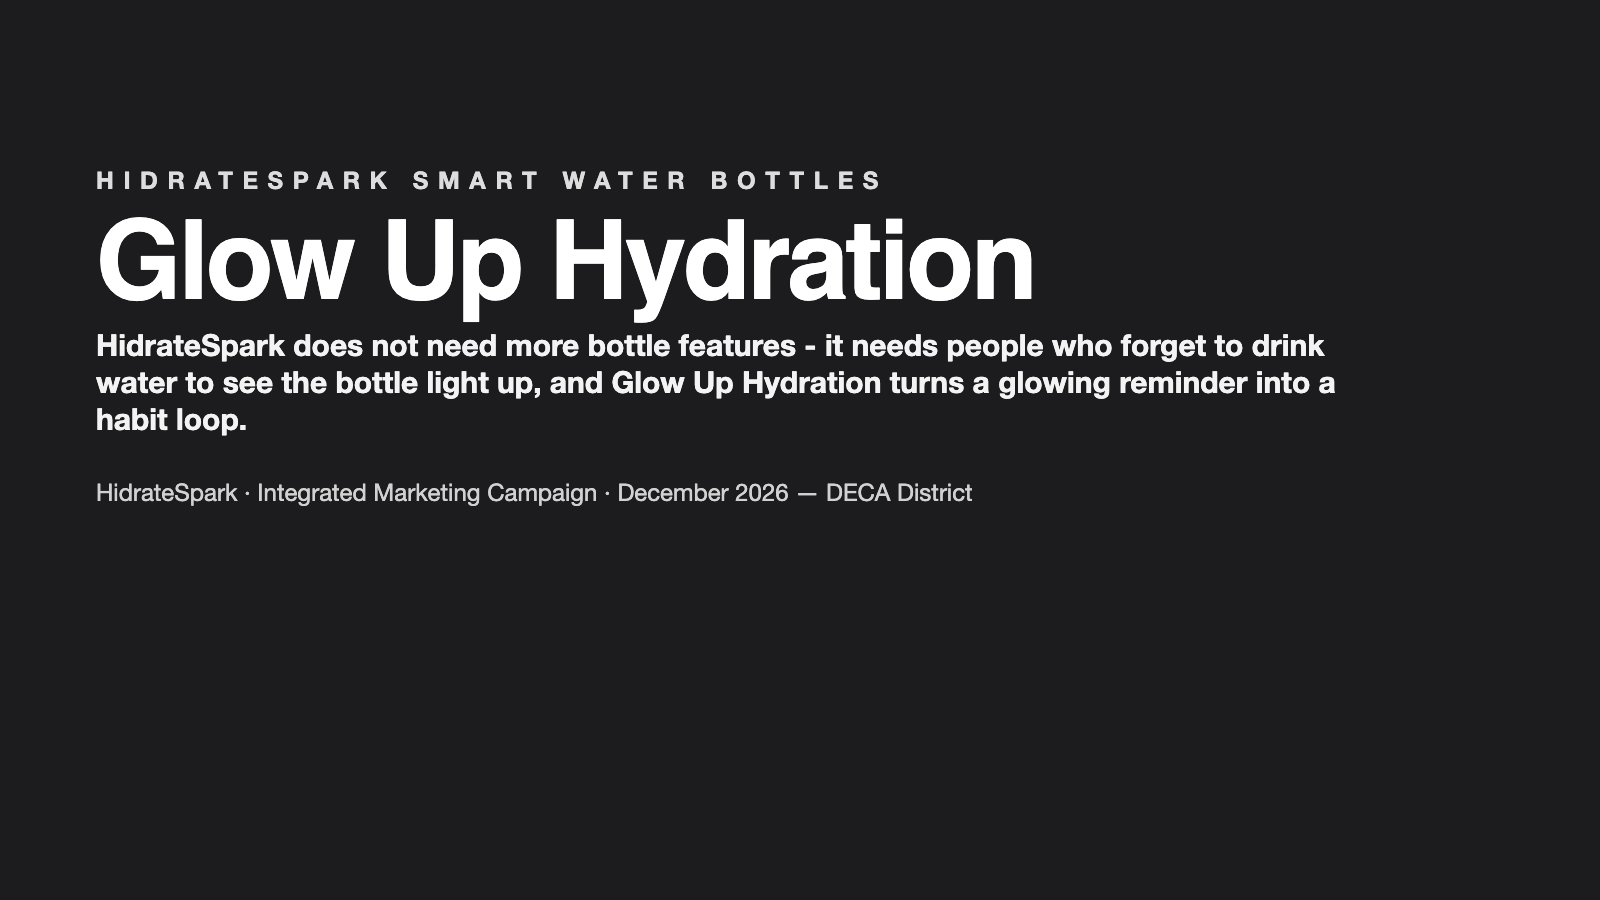
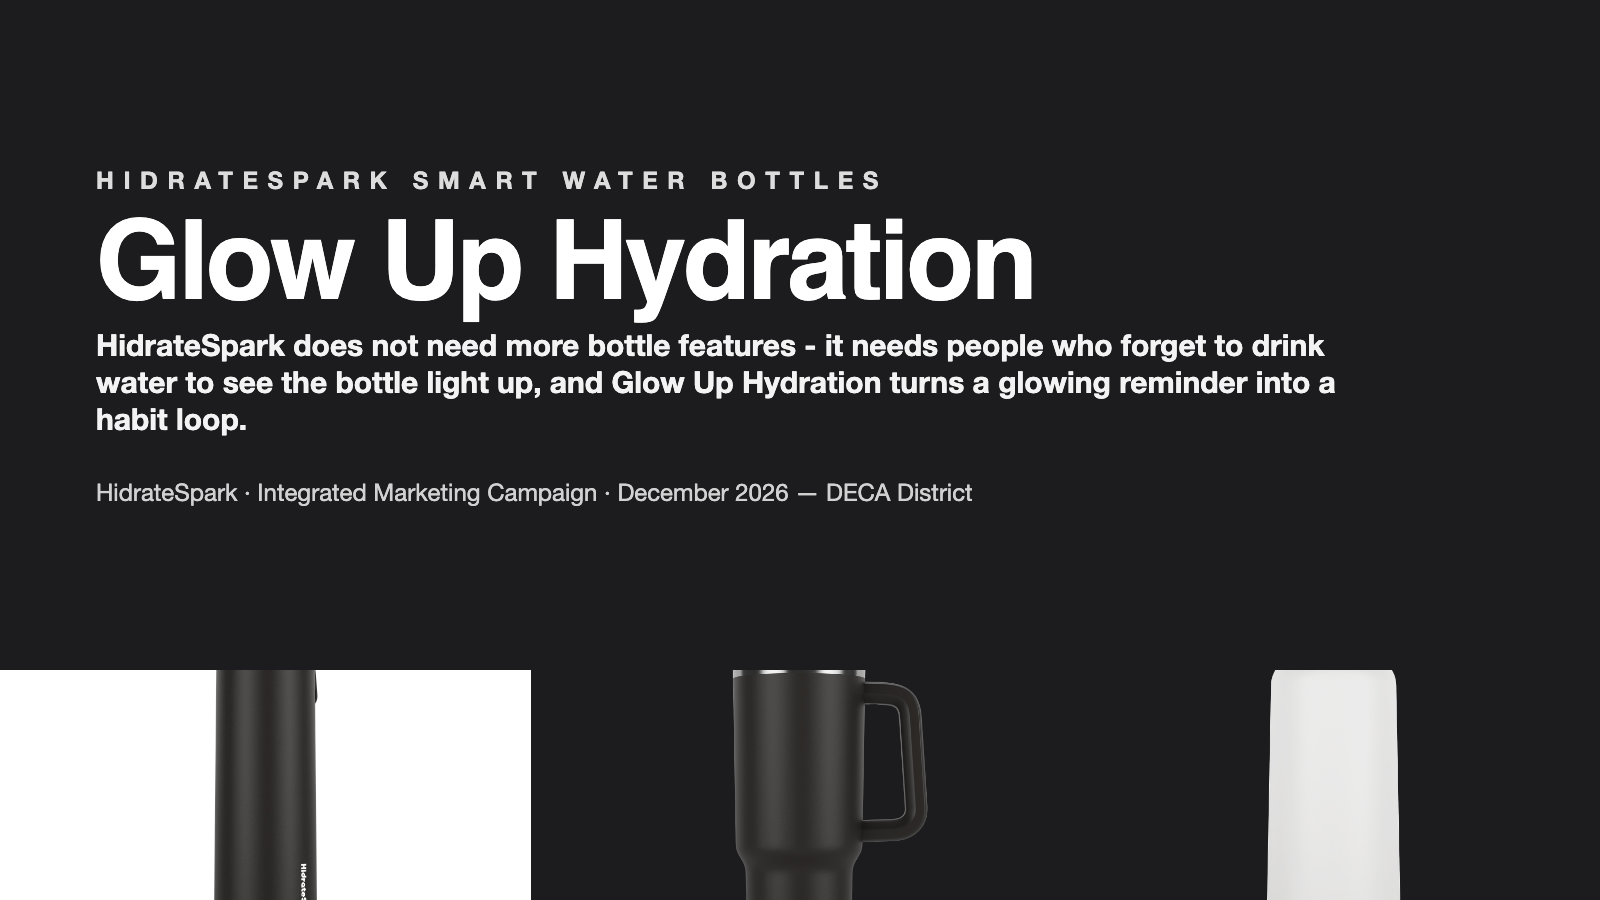
v22: real HidrateSpark bottle photos on cover + product slide

Changed region(s): [[0.0, 0.7467, 0.3438, 1.0], [0.4375, 0.7467, 0.5938, 1.0], [0.7812, 0.7467, 0.875, 1.0]]

diff --git a/pipeline/runs/v22/imcp/p10.html b/pipeline/runs/v22/imcp/p10.html
@@ -68,4 +68,4 @@ img.vis{max-width:100%;max-height:560px;border-radius:16px;object-fit:contain;bo
 .tag{display:inline-block;background:var(--brand);color:#fff;border-radius:999px;padding:5px 14px;font-size:14px;font-weight:800;letter-spacing:.06em}
 .mono{font-family:'SF Mono',Menlo,monospace}
 </style></head>
-<body class="style-tech"><div class="page" style="background:#ffffff"><div class="frame"></div><div class="kick">STRATEGIC LOGIC</div><div class="h1">Insights -&gt; Campaign Decisions</div><div class="tbar"></div><div style="margin-top:18px"><div class="card" style="margin-bottom:14px;padding:18px 24px;display:flex;gap:24px;align-items:center"><div class="body" style="flex:1.4;font-size:19px"><b>[R1]</b> &#x27;Glow&#x27; and &#x27;reminder&#x27; dominate reviews - buyers describe the light as the habit trigger, not the bottle</div><div class="arrow">→</div></div><div class="card" style="margin-bottom:14px;padding:18px 24px;display:flex;gap:24px;align-items:center"><div class="body" style="flex:1.4;font-size:19px"><b>[R2]</b> Complaints cluster on app connectivity/battery - the hardware is loved, the software is the friction</div><div class="arrow">→</div></div><div class="card" style="margin-bottom:14px;padding:18px 24px;display:flex;gap:24px;align-items:center"><div class="body" style="flex:1.4;font-size:19px"><b>[R3]</b> Reviewers bought for a stated health problem (headaches, &#x27;never drink water&#x27;) - a problem-aware niche most people don&#x27;t know they belong to</div><div class="arrow">→</div><div class="body" style="flex:1;font-size:18px;color:var(--brand);font-weight:700">Push-pull: workshops create the first success (pull); stitch-along + gift drops convert at home (push).</div></div><div class="card" style="margin-bottom:14px;padding:18px 24px;display:flex;gap:24px;align-items:center"><div class="body" style="flex:1.4;font-size:19px"><b>[R4]</b> Gift mentions are strong - the smart bottle is bought as &#x27;the perfect gift&#x27; more than for self</div><div class="arrow">→</div><div class="body" style="flex:1;font-size:18px;color:var(--brand);font-weight:700">Finished Wooble as social proof: every finisher is an ad.</div></div></div><div class="navbar"><div class="navpills"><span class="navp">Product</span><span class="navp">Objectives</span><span class="navp">Target Market</span><span class="navp">Proposed Plan</span><span class="navp">Expenses</span><span class="navp">Key Metrics</span></div><div class="pgcirc">10</div></div></div></body></html>
+<body class="style-tech"><div class="page" style="background:#ffffff"><div class="frame"></div><div class="kick">STRATEGIC LOGIC</div><div class="h1">Insights -&gt; Campaign Decisions</div><div class="tbar"></div><div style="margin-top:18px"><div class="card" style="margin-bottom:14px;padding:18px 24px;display:flex;gap:24px;align-items:center"><div class="body" style="flex:1.4;font-size:19px"><b>[R1]</b> &#x27;Glow&#x27; and &#x27;reminder&#x27; dominate reviews - buyers describe the light as the habit trigger, not the bottle</div><div class="arrow">→</div></div><div class="card" style="margin-bottom:14px;padding:18px 24px;display:flex;gap:24px;align-items:center"><div class="body" style="flex:1.4;font-size:19px"><b>[R2]</b> Complaints cluster on app connectivity/battery - the hardware is loved, the software is the friction</div><div class="arrow">→</div></div><div class="card" style="margin-bottom:14px;padding:18px 24px;display:flex;gap:24px;align-items:center"><div class="body" style="flex:1.4;font-size:19px"><b>[R3]</b> Reviewers bought for a stated health problem (headaches, &#x27;never drink water&#x27;) - a problem-aware niche most people don&#x27;t know they belong to</div><div class="arrow">→</div><div class="body" style="flex:1;font-size:18px;color:var(--brand);font-weight:700">Push-pull: stations create the live glow demo (pull); challenge + gift drops convert at home (push).</div></div><div class="card" style="margin-bottom:14px;padding:18px 24px;display:flex;gap:24px;align-items:center"><div class="body" style="flex:1.4;font-size:19px"><b>[R4]</b> Gift mentions are strong - the smart bottle is bought as &#x27;the perfect gift&#x27; more than for self</div><div class="arrow">→</div></div></div><div class="navbar"><div class="navpills"><span class="navp">Product</span><span class="navp">Objectives</span><span class="navp">Target Market</span><span class="navp">Proposed Plan</span><span class="navp">Expenses</span><span class="navp">Key Metrics</span></div><div class="pgcirc">10</div></div></div></body></html>

diff --git a/pipeline/runs/v22/imcp/p09.html b/pipeline/runs/v22/imcp/p09.html
@@ -68,4 +68,4 @@ img.vis{max-width:100%;max-height:560px;border-radius:16px;object-fit:contain;bo
 .tag{display:inline-block;background:var(--brand);color:#fff;border-radius:999px;padding:5px 14px;font-size:14px;font-weight:800;letter-spacing:.06em}
 .mono{font-family:'SF Mono',Menlo,monospace}
 </style></head>
-<body class="style-tech"><div class="page" style="background:#ffffff"><div class="frame"></div><div class="kick">METHODOLOGY &amp; FINDINGS</div><div class="h1">Research Methodology &amp; Results</div><div class="tbar"></div><div class="cols2"><div class="col"><div class="kick grey" style="font-size:16px">METHODS</div><div class="q"><div class="body" style="font-size:20px">Review Analysis (n=150): 150 public Judge.me reviews on hidratespark.com, keyword-coded (collected 2026-11-07) — complete</div></div><div class="q"><div class="body" style="font-size:20px">Digital Shelf Audit (n=8): Woobles catalog/kit pages, starter bundles, social vs craft-store positioning — complete</div></div></div><div class="col"><div class="kick grey" style="font-size:16px">KEY RESULTS</div><div class="q" style="margin-bottom:10px;padding:14px 18px"><div class="body" style="font-size:18px">&#x27;Glow&#x27; and &#x27;reminder&#x27; dominate reviews - buyers describe the light as the habit trigger, not the bottle</div></div><div class="q" style="margin-bottom:10px;padding:14px 18px"><div class="body" style="font-size:18px">Complaints cluster on app connectivity/battery - the hardware is loved, the software is the friction</div></div><div class="q" style="margin-bottom:10px;padding:14px 18px"><div class="body" style="font-size:18px">Reviewers bought for a stated health problem (headaches, &#x27;never drink water&#x27;) - a problem-aware niche most people don&#x27;t know they belong to</div></div><div class="q" style="margin-bottom:10px;padding:14px 18px"><div class="body" style="font-size:18px">Gift mentions are strong - the smart bottle is bought as &#x27;the perfect gift&#x27; more than for self</div></div></div></div><div class="navbar"><div class="navpills"><span class="navp">Product</span><span class="navp">Objectives</span><span class="navp">Target Market</span><span class="navp">Proposed Plan</span><span class="navp">Expenses</span><span class="navp">Key Metrics</span></div><div class="pgcirc">9</div></div></div></body></html></body></html>
+<body class="style-tech"><div class="page" style="background:#ffffff"><div class="frame"></div><div class="kick">METHODOLOGY &amp; FINDINGS</div><div class="h1">Research Methodology &amp; Results</div><div class="tbar"></div><div class="cols2"><div class="col"><div class="kick grey" style="font-size:16px">METHODS</div><div class="q"><div class="body" style="font-size:20px">Review Analysis (n=150): 150 public Judge.me reviews on hidratespark.com, keyword-coded (collected 2026-11-07) — complete</div></div><div class="q"><div class="body" style="font-size:20px">Digital Shelf Audit (n=8): HidrateSpark product/bundle pages, app features, social vs Owala/Stanley bottle positioning — complete</div></div></div><div class="col"><div class="kick grey" style="font-size:16px">KEY RESULTS</div><div class="q" style="margin-bottom:10px;padding:14px 18px"><div class="body" style="font-size:18px">&#x27;Glow&#x27; and &#x27;reminder&#x27; dominate reviews - buyers describe the light as the habit trigger, not the bottle</div></div><div class="q" style="margin-bottom:10px;padding:14px 18px"><div class="body" style="font-size:18px">Complaints cluster on app connectivity/battery - the hardware is loved, the software is the friction</div></div><div class="q" style="margin-bottom:10px;padding:14px 18px"><div class="body" style="font-size:18px">Reviewers bought for a stated health problem (headaches, &#x27;never drink water&#x27;) - a problem-aware niche most people don&#x27;t know they belong to</div></div><div class="q" style="margin-bottom:10px;padding:14px 18px"><div class="body" style="font-size:18px">Gift mentions are strong - the smart bottle is bought as &#x27;the perfect gift&#x27; more than for self</div></div></div></div><div class="navbar"><div class="navpills"><span class="navp">Product</span><span class="navp">Objectives</span><span class="navp">Target Market</span><span class="navp">Proposed Plan</span><span class="navp">Expenses</span><span class="navp">Key Metrics</span></div><div class="pgcirc">9</div></div></div></body></html>

diff --git a/pipeline/runs/v22/imcp/p11.html b/pipeline/runs/v22/imcp/p11.html
@@ -68,4 +68,4 @@ img.vis{max-width:100%;max-height:560px;border-radius:16px;object-fit:contain;bo
 .tag{display:inline-block;background:var(--brand);color:#fff;border-radius:999px;padding:5px 14px;font-size:14px;font-weight:800;letter-spacing:.06em}
 .mono{font-family:'SF Mono',Menlo,monospace}
 </style></head>
-<body class="style-tech"><div class="page" style="background:#ffffff"><div class="frame"></div><div class="kick">CAMPAIGN STRATEGY</div><div class="h1">Campaign Strategy</div><div class="tbar"></div><div class="themep">Theme: Glow Up Hydration</div><div class="body" style="font-size:23px;max-width:1250px"><li class=""><b>Theme:</b> Can&#x27;t Fail Club - membership you earn by finishing.</li><li class=""><b>Push-pull:</b> workshops create the first success (pull); stitch-along + gift drops convert at home (push).</li><li class=""><b>Finished Wooble as social proof:</b> every finisher is an ad.</li><li class=""><b>PESO:</b> paid geo-social, earned maker-fair/library PR, shared WIP/finish posts, owned email/SMS + stitch series.</li></div><div style="display:flex;gap:14px;flex-wrap:wrap;margin-top:26px"><span class="navp" style="background:var(--brand);color:#fff;font-size:18px;padding:12px 24px">LinkedIn</span><span class="navp" style="background:var(--brand);color:#fff;font-size:18px;padding:12px 24px">QR offer</span><span class="navp" style="background:var(--brand);color:#fff;font-size:18px;padding:12px 24px">SMS</span><span class="navp" style="background:var(--brand);color:#fff;font-size:18px;padding:12px 24px">TikTok</span><span class="navp" style="background:var(--brand);color:#fff;font-size:18px;padding:12px 24px">YouTube</span><span class="navp" style="background:var(--brand);color:#fff;font-size:18px;padding:12px 24px">app</span><span class="navp" style="background:var(--brand);color:#fff;font-size:18px;padding:12px 24px">email</span></div><div class="navbar"><div class="navpills"><span class="navp">Product</span><span class="navp">Objectives</span><span class="navp">Target Market</span><span class="navp on">Proposed Plan</span><span class="navp">Expenses</span><span class="navp">Key Metrics</span></div><div class="pgcirc">11</div></div></div></body></html>
+<body class="style-tech"><div class="page" style="background:#ffffff"><div class="frame"></div><div class="kick">CAMPAIGN STRATEGY</div><div class="h1">Campaign Strategy</div><div class="tbar"></div><div class="cols2" style="margin-top:6px"><div class="col"><div class="themep" style="font-size:22px;padding:12px 30px">Theme: Glow Up Hydration</div><div class="body" style="font-size:20px"><li class=""><b>Theme:</b> Glow Up Hydration - the light reminds you; the campaign reminds them.</li><li class=""><b>Push-pull:</b> stations create the live glow demo (pull); challenge + gift drops convert at home (push).</li><li class=""><b>Quantified self as proof:</b> intake numbers become shareable results.</li><li class=""><b>PESO:</b> paid geo-social, earned gym/office PR, shared glow clips, owned email/SMS + challenge.</li></div><div style="display:flex;gap:12px;flex-wrap:wrap;margin-top:20px"><span class="navp" style="background:var(--brand);color:#fff;font-size:18px;padding:12px 24px">LinkedIn</span><span class="navp" style="background:var(--brand);color:#fff;font-size:18px;padding:12px 24px">QR offer</span><span class="navp" style="background:var(--brand);color:#fff;font-size:18px;padding:12px 24px">SMS</span><span class="navp" style="background:var(--brand);color:#fff;font-size:18px;padding:12px 24px">TikTok</span><span class="navp" style="background:var(--brand);color:#fff;font-size:18px;padding:12px 24px">YouTube</span><span class="navp" style="background:var(--brand);color:#fff;font-size:18px;padding:12px 24px">app</span><span class="navp" style="background:var(--brand);color:#fff;font-size:18px;padding:12px 24px">email</span></div></div><div class="col"><img class="vis" src="file:///Users/pranav/Desktop/DevinProjects/imcp-product-finder/pipeline/runs/v22/webimg/web01.png" style="max-height:540px;width:100%;object-fit:contain"></div></div><div class="navbar"><div class="navpills"><span class="navp">Product</span><span class="navp">Objectives</span><span class="navp">Target Market</span><span class="navp on">Proposed Plan</span><span class="navp">Expenses</span><span class="navp">Key Metrics</span></div><div class="pgcirc">11</div></div></div></body></html>

diff --git a/pipeline/runs/v22/imcp/p05.html b/pipeline/runs/v22/imcp/p05.html
@@ -68,4 +68,4 @@ img.vis{max-width:100%;max-height:560px;border-radius:16px;object-fit:contain;bo
 .tag{display:inline-block;background:var(--brand);color:#fff;border-radius:999px;padding:5px 14px;font-size:14px;font-weight:800;letter-spacing:.06em}
 .mono{font-family:'SF Mono',Menlo,monospace}
 </style></head>
-<body class="style-tech"><div class="page" style="background:#ffffff"><div class="frame"></div><div class="kick">PRODUCT PROFILE</div><div class="h1">The Product</div><div class="tbar"></div><div class="body" style="font-size:25px;max-width:1200px"><li class=""><b>Smart water bottle:</b> LED glow reminders, app-tracked intake, $60-70 bottles + accessories.</li><li class=""><b>The demo is the feature:</b> the bottle lights up in your hand - judges see the glow, not a spec sheet.</li><li class=""><b>Reviews:</b> &#x27;glow&#x27;/&#x27;reminder&#x27; dominate - the light IS the habit loop.</li><li class="">Sold DTC online; quantified-self wearable category.</li></div><div class="navbar"><div class="navpills"><span class="navp on">Product</span><span class="navp">Objectives</span><span class="navp">Target Market</span><span class="navp">Proposed Plan</span><span class="navp">Expenses</span><span class="navp">Key Metrics</span></div><div class="pgcirc">5</div></div></div></body></html>
+<body class="style-tech"><div class="page" style="background:#ffffff"><div class="frame"></div><div class="kick">PRODUCT PROFILE</div><div class="h1">The Product</div><div class="tbar"></div><div class="body" style="font-size:25px;max-width:1200px"><li class=""><b>Smart water bottle:</b> LED glow reminders, app-tracked intake, $60-70 bottles + accessories.</li><li class=""><b>The demo is the feature:</b> the bottle lights up in your hand - judges see the glow, not a spec sheet.</li><li class=""><b>Reviews:</b> &#x27;glow&#x27;/&#x27;reminder&#x27; dominate - the light IS the habit loop.</li><li class="">Sold DTC online; quantified-self wearable category.</li></div><div style="display:grid;grid-template-columns:repeat(4,1fr);gap:14px;margin-top:auto"><img src="file:///Users/pranav/Desktop/DevinProjects/imcp-product-finder/pipeline/runs/v22/webimg/web00.jpg" style="width:100%;height:180px;object-fit:cover;border-radius:14px"><img src="file:///Users/pranav/Desktop/DevinProjects/imcp-product-finder/pipeline/runs/v22/webimg/web01.png" style="width:100%;height:180px;object-fit:cover;border-radius:14px"><img src="file:///Users/pranav/Desktop/DevinProjects/imcp-product-finder/pipeline/runs/v22/webimg/web02.png" style="width:100%;height:180px;object-fit:cover;border-radius:14px"></div><div class="navbar"><div class="navpills"><span class="navp on">Product</span><span class="navp">Objectives</span><span class="navp">Target Market</span><span class="navp">Proposed Plan</span><span class="navp">Expenses</span><span class="navp">Key Metrics</span></div><div class="pgcirc">5</div></div></div></body></html>

diff --git a/pipeline/runs/v22/imcp/p08.html b/pipeline/runs/v22/imcp/p08.html
@@ -70,4 +70,4 @@ img.vis{max-width:100%;max-height:560px;border-radius:16px;object-fit:contain;bo
 </style></head>
 <body class="style-tech"><div class="page" style="background:#ffffff"><div class="frame"></div><div class="kick">AUDIENCE SEGMENTS</div><div class="h1">Target Market</div><div class="tbar"></div><div class="grid2" style="margin-top:22px"><div class="card"><div class="cl">P1 · HEALTH-TRACKING ACHIEVERS (18-34) (PRIMARY)</div>
 <div class="body" style="font-size:20px"><b>Who:</b> 18-34, fitness-app users, gym/study culture<br><b>Where:</b> Austin TX metro (gyms, campuses, offices)<br><b>Mindset:</b> tracks steps/sleep/macros; quantified-self mindset; hydration is the gap<br><b>Behavior:</b> buys wearables + tracking apps; premium bottle &lt;$70<br><b>Media:</b> TikTok, Instagram, Strava/fitness apps, gym foot traffic</div></div><div class="card"><div class="cl">P2 · DESK WORKERS + GIFTERS </div>
-<div class="body" style="font-size:20px"><b>Who:</b> 25-45, office workers + gift-buyers<br><b>Where:</b> DFW/Austin + online<br><b>Mindset:</b> forgets water at desk; practical-gift buyers<br><b>Behavior:</b> gadget-curious, gift-occasion buys<br><b>Media:</b> email, YouTube, Reddit</div></div></div><div class="navbar"><div class="navpills"><span class="navp">Product</span><span class="navp">Objectives</span><span class="navp">Target Market</span><span class="navp">Proposed Plan</span><span class="navp">Expenses</span><span class="navp">Key Metrics</span></div><div class="pgcirc">8</div></div></div></body></html>
+<div class="body" style="font-size:20px"><b>Who:</b> 25-45, office workers + gift-buyers<br><b>Where:</b> DFW/Austin + online<br><b>Mindset:</b> forgets water at desk; practical-gift buyers<br><b>Behavior:</b> gadget-curious, gift-occasion buys<br><b>Media:</b> email, YouTube, Reddit</div></div></div><div style="display:flex;gap:16px;margin-top:26px"><img src="file:///Users/pranav/Desktop/DevinProjects/imcp-product-finder/pipeline/runs/v22/webimg/web00.jpg" style="flex:1;height:140px;object-fit:cover;border-radius:14px;min-width:0"><img src="file:///Users/pranav/Desktop/DevinProjects/imcp-product-finder/pipeline/runs/v22/webimg/web01.png" style="flex:1;height:140px;object-fit:cover;border-radius:14px;min-width:0"><img src="file:///Users/pranav/Desktop/DevinProjects/imcp-product-finder/pipeline/runs/v22/webimg/web02.png" style="flex:1;height:140px;object-fit:cover;border-radius:14px;min-width:0"></div><div class="navbar"><div class="navpills"><span class="navp">Product</span><span class="navp">Objectives</span><span class="navp">Target Market</span><span class="navp">Proposed Plan</span><span class="navp">Expenses</span><span class="navp">Key Metrics</span></div><div class="pgcirc">8</div></div></div></body></html>

diff --git a/pipeline/runs/v22/imcp/p06.html b/pipeline/runs/v22/imcp/p06.html
@@ -68,4 +68,4 @@ img.vis{max-width:100%;max-height:560px;border-radius:16px;object-fit:contain;bo
 .tag{display:inline-block;background:var(--brand);color:#fff;border-radius:999px;padding:5px 14px;font-size:14px;font-weight:800;letter-spacing:.06em}
 .mono{font-family:'SF Mono',Menlo,monospace}
 </style></head>
-<body class="style-tech"><div class="page" style="background:#ffffff"><div class="frame"></div><div class="kick">COMPANY &amp; POSITION</div><div class="h1">Company &amp; Position</div><div class="tbar"></div><div class="cols2"><div class="col"><div class="body"><li class=""><b>Smart hydration brand -</b> 150+ verified reviews, wearable-adjacent positioning.</li><li class=""><b>Hydration tracking is a real gap:</b> people track steps/sleep but forget water - the last untracked habit.</li><li class=""><b>Positioning gap:</b> &#x27;fitness gadget&#x27; is cluttered; &#x27;the bottle that reminds you&#x27; is unclaimed.</li><li class="">Campaign claims the reminder.</li></div></div><div class="col"></div></div><div class="navbar"><div class="navpills"><span class="navp on">Product</span><span class="navp">Objectives</span><span class="navp">Target Market</span><span class="navp">Proposed Plan</span><span class="navp">Expenses</span><span class="navp">Key Metrics</span></div><div class="pgcirc">6</div></div></div></body></html>
+<body class="style-tech"><div class="page" style="background:#ffffff"><div class="frame"></div><div class="kick">COMPANY &amp; POSITION</div><div class="h1">Company &amp; Position</div><div class="tbar"></div><div class="cols2"><div class="col"><div class="body"><li class=""><b>Smart hydration brand -</b> 150+ verified reviews, wearable-adjacent positioning.</li><li class=""><b>Hydration tracking is a real gap:</b> people track steps/sleep but forget water - the last untracked habit.</li><li class=""><b>Positioning gap:</b> &#x27;fitness gadget&#x27; is cluttered; &#x27;the bottle that reminds you&#x27; is unclaimed.</li><li class="">Campaign claims the reminder.</li></div></div><div class="col"><img class="vis" src="file:///Users/pranav/Desktop/DevinProjects/imcp-product-finder/pipeline/runs/v22/webimg/web02.png"></div></div><div class="navbar"><div class="navpills"><span class="navp on">Product</span><span class="navp">Objectives</span><span class="navp">Target Market</span><span class="navp">Proposed Plan</span><span class="navp">Expenses</span><span class="navp">Key Metrics</span></div><div class="pgcirc">6</div></div></div></body></html>

diff --git a/pipeline/runs/v22/imcp/p01.html b/pipeline/runs/v22/imcp/p01.html
@@ -75,4 +75,4 @@ img.vis{max-width:100%;max-height:560px;border-radius:16px;object-fit:contain;bo
 <div style="font-size:30px;color:#fff;opacity:.95;font-weight:600;max-width:1250px">HidrateSpark does not need more bottle features - it needs people who forget to drink water to see the bottle light up, and Glow Up Hydration turns a glowing reminder into a habit loop.</div>
 <div style="margin-top:40px;font-size:24px;color:#fff;opacity:.8">HidrateSpark · Integrated Marketing Campaign · December 2026 — DECA District</div>
 </div>
-</div></body></html>
+<div class="strip"><img src="file:///Users/pranav/Desktop/DevinProjects/imcp-product-finder/pipeline/runs/v22/webimg/web00.jpg"><img src="file:///Users/pranav/Desktop/DevinProjects/imcp-product-finder/pipeline/runs/v22/webimg/web01.png"><img src="file:///Users/pranav/Desktop/DevinProjects/imcp-product-finder/pipeline/runs/v22/webimg/web02.png"></div></div></body></html>
